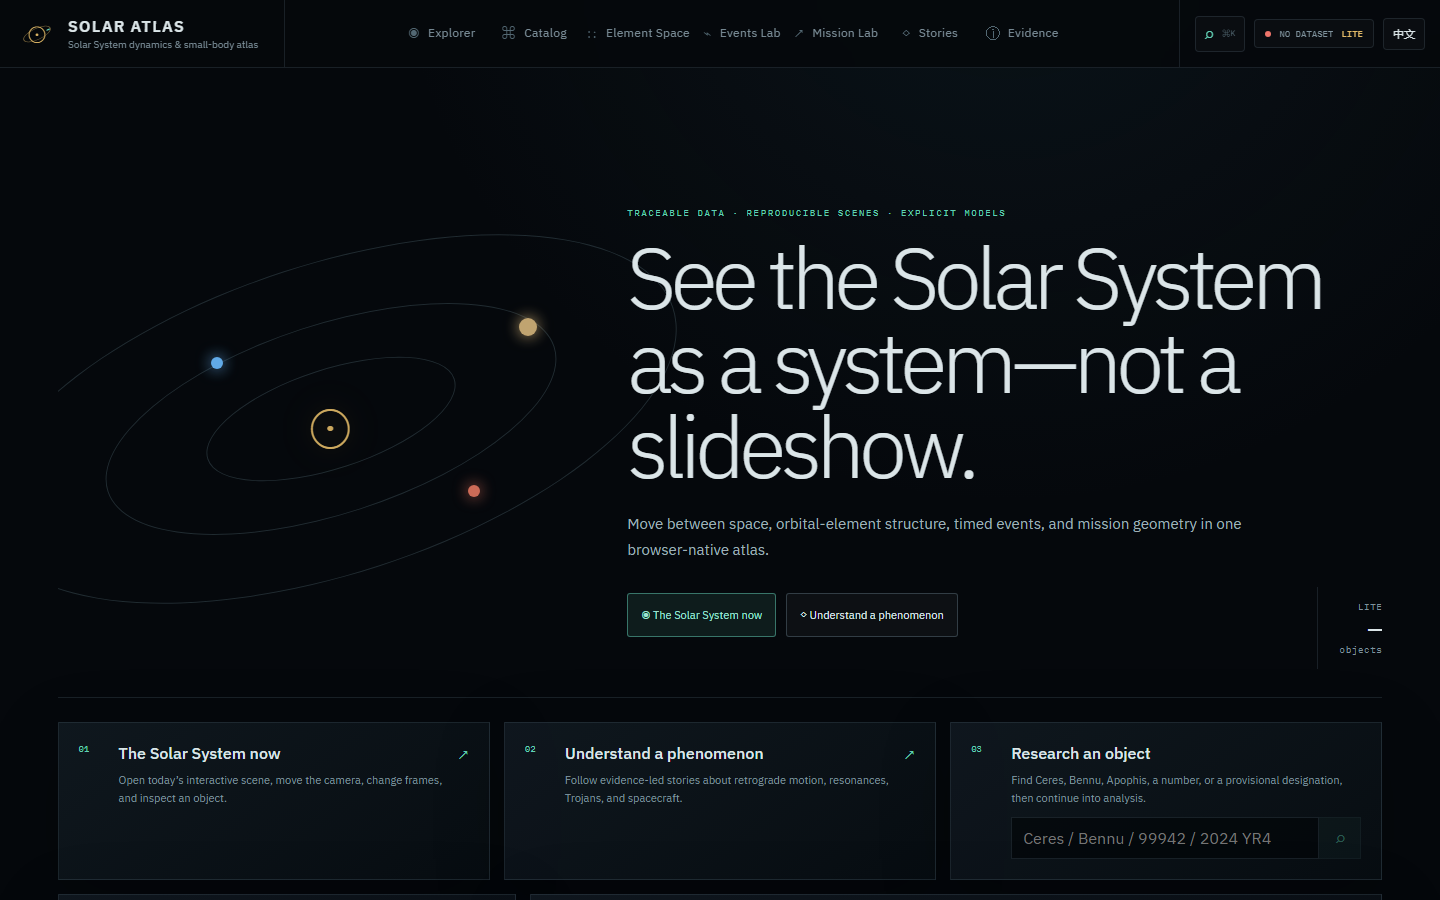
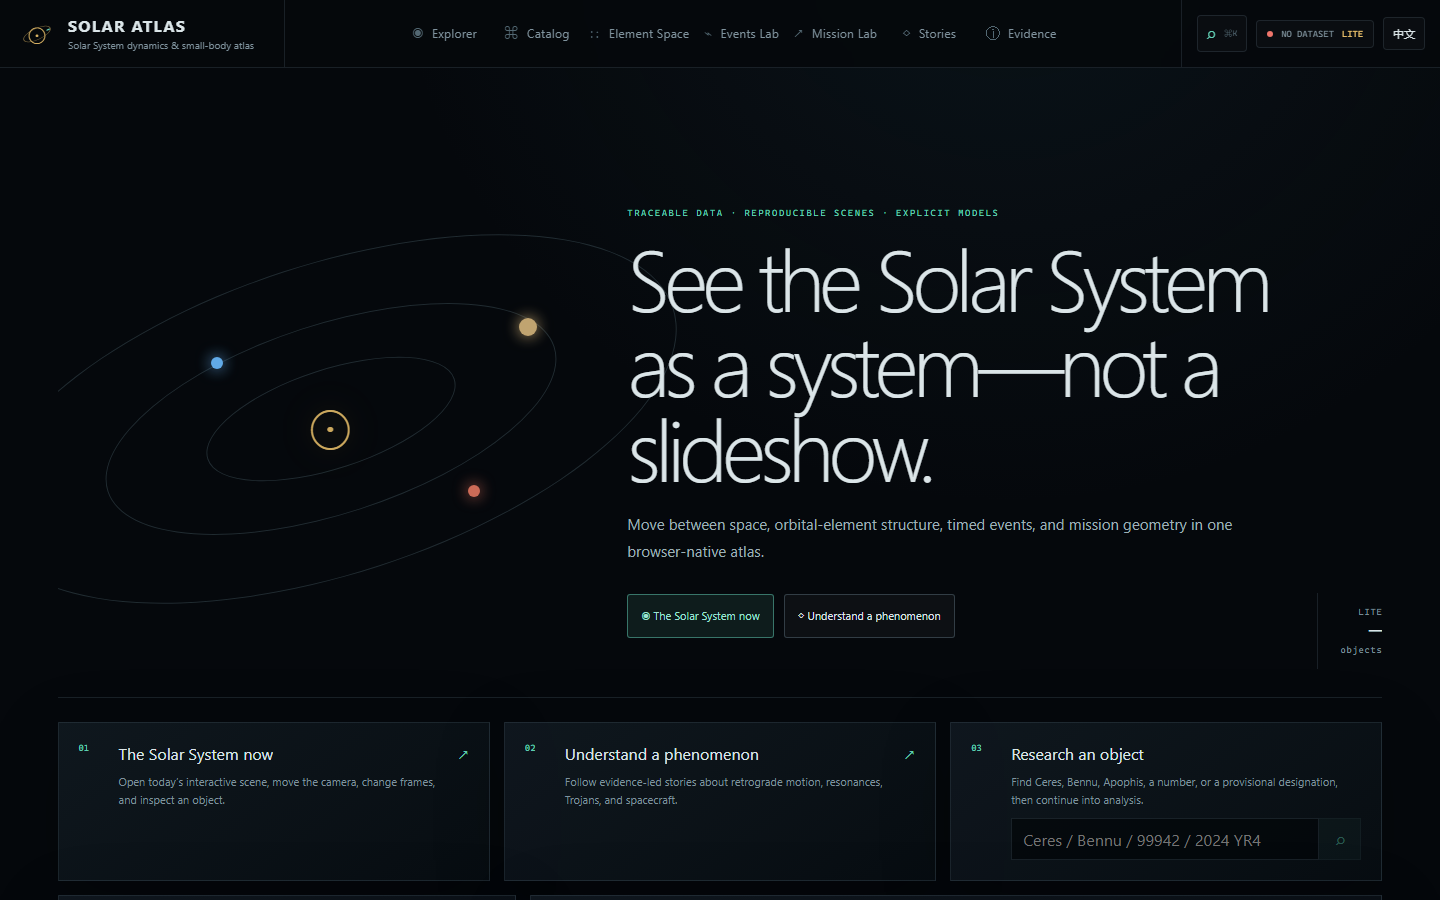
fix: make Lighthouse gate self-contained

diff --git a/src/index.css b/src/index.css
@@ -1,5 +1,3 @@
-@import url('https://fonts.googleapis.com/css2?family=IBM+Plex+Mono:wght@400;500&family=IBM+Plex+Sans:wght@300;400;500;600&display=swap');
-
 html { color-scheme: dark; background: #05080c; }
 html, body, #root { min-width: 320px; min-height: 100%; margin: 0; }
 body { min-height: 100vh; font-family: "IBM Plex Sans", "Segoe UI", system-ui, sans-serif; background: #05080c; text-rendering: optimizeLegibility; -webkit-font-smoothing: antialiased; }

diff --git a/CHANGELOG.md b/CHANGELOG.md
@@ -23,6 +23,7 @@ All notable changes to Solar Atlas are documented here. The project follows sema
 - WebGL creation or context loss now falls back to a usable 2D Explorer, worker exceptions surface recovery state, and lazy workspaces have route-local retry/home error boundaries.
 - Story-guide, command-palette, element-chart, porkchop, and profile interactions preserve keyboard and automated accessibility coverage.
 - Windows asset generation reads UTF-8 story data explicitly and fails on errors, preventing corrupted Chinese social-card labels.
+- The application shell no longer depends on cross-origin web fonts, keeping the first-install offline experience and zero-third-party Lighthouse budget deterministic.
 
 ## 0.9.1 — 2026-08-20
 

diff --git a/PERFORMANCE.md b/PERFORMANCE.md
@@ -19,6 +19,7 @@ Solar Atlas treats the million-object catalog as a columnar filtering problem, n
 | Typical Catalog session transfer | reported, regression-reviewed | shell + compact index + desktop sample + manifest/provenance |
 | Lighthouse script transfer | 1,500,000 bytes | deployment Lighthouse CI assertion |
 | Lighthouse total first-load transfer | 3,500,000 bytes | deployment Lighthouse CI assertion |
+| Third-party first-load requests | 0 | deployment Lighthouse CI assertion |
 | Lighthouse total blocking time | 600 ms | median of three deployment runs |
 | Lighthouse cumulative layout shift | 0.10 | median of three deployment runs |
 | Lighthouse accessibility / SEO | 0.90 minimum | median of three deployment runs |
